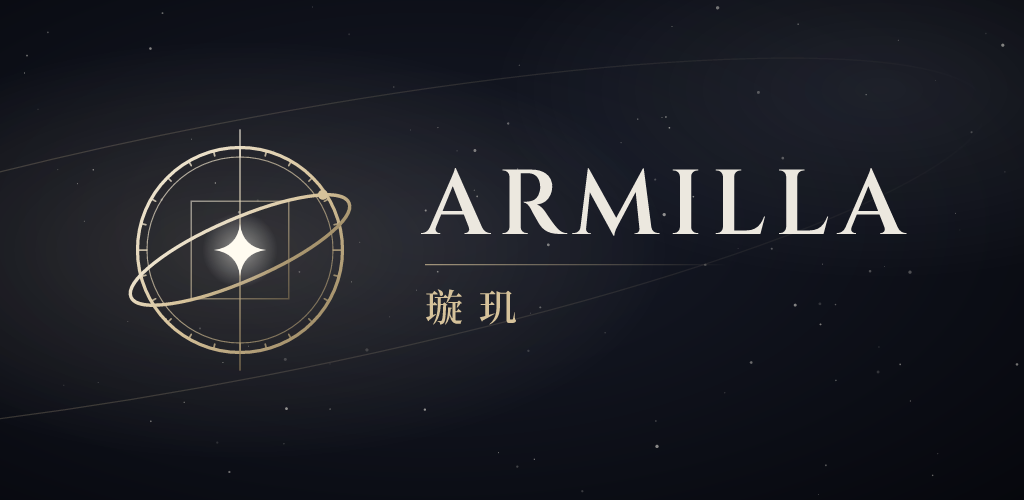
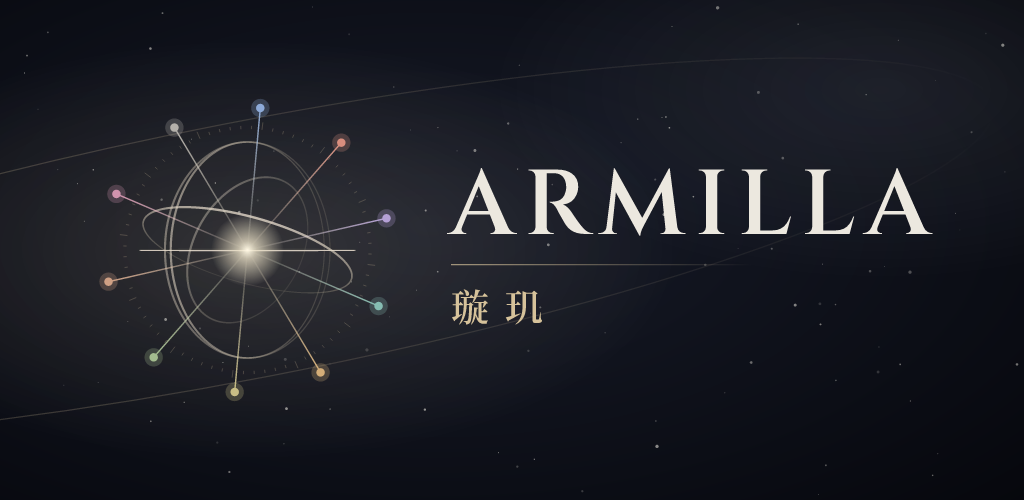
armilla: the App Store and Google Play badges are live (1.0.0 on sale on both stores); press-kit feature images with the ten-light armillary

diff --git a/armilla/press.html b/armilla/press.html
@@ -52,7 +52,7 @@
 <h2>核心差异与技术标准</h2>
 <ul><li><strong>单一 Rust 引擎：</strong> 纯 Rust 天文算法（VSOP87、ELP2000-82B/MPP02、Meeus）、IANA 历史时区与夏令时、真太阳时、精确至分节气及含闰月农历；离线运行于手机（UniFFI）及 WebAssembly，对照 1,079 组参考出生时刻零误差。</li><li><strong>AI 绝不自行推算：</strong> AI 功能通过付费 API 交由代表璇玑提供服务的第三方 AI 服务商处理（由璇玑按功能选定，均不得将接收的内容用于模型训练）。文字功能（解读、问璇玑、今日指引，以及出生时间推定的提问与理由）只发送引擎算出的命盘数据与问题，绝不发送姓名、出生日期、出生时间与出生地点；日志与人生事件文本仅在开启「让 AI 读取我的人生事件」后才会附带。形相功能仅在另行同意后发送手相或面相照片，并只由读取照片的服务商处理，绝不转交其他服务商。每句命盘陈述都附带可点击的出处，没有依据的句子会在展示前自动剔除。</li><li><strong>实证对照与时间推定：</strong> 「汇聚」圆点标示多体系共识；记录事件可统计体系契合度。<strong>出生时间推定</strong>结合家人记忆、5 件以上事件、区分性问答与可选形相参考缩小范围（AI 辅助或纯本地无 AI；依模拟回测分级，不宣称命中率）。</li><li><strong>隐私与明确边界：</strong> 排盘、导出与日志无需注册；支持无密码登录；同步日志、事件笔记与照片端到端加密，可随时导出或删除。<strong>严守六大不预测：</strong> 死亡与寿限、疾病诊断、灾祸意外、官司结果、具体投资标的、彩票赌博（形相亦不判健康与寿命）。无周订阅、不售开运物、无广告。</li></ul>
 <h2>上架范围、平台与定价</h2>
-<ul><li><strong>平台：</strong> iPhone（仅限 iPhone，iOS 26+）App Store · 即将上架 · Android（Android 9+）Google Play · 即将上架 · 网页端 <a href="https://armilla.arcturatech.com" rel="noopener">https://armilla.arcturatech.com</a> 。免费下载，单一账号三端通用；支持简中、繁中与英文（隐私与条款仅英文）。上架 App Store 174 地区及 Google Play，不上架中国大陆商店。商店名：<strong>璇玑 Armilla</strong>。</li><li><strong>订阅（美元标价，各商店当地币种；年付含 7 天试用；无周订阅）：</strong> <strong>Free（$0）：</strong> 离线命盘/时间层、本人导出、每日 6 篇速读、问璇玑（3 次/日）、十年命途、3 档案、日志。<strong>Plus（$9.99/月 · $59.99/年）：</strong> 详解与自选体系、每月 4 篇长文、流年流月、无限问璇玑、完整合盘、30 档案、每年 1 份年度报告与 1 次推定。<strong>Family（$16.99/月 · $99.99/年）：</strong> 6 账号共享 Plus、3–8 人群盘、家庭空间、60 档案、每年 3 次推定。<strong>Pro（$29.99/月 · $239/年）：</strong> 网页工作台（1,000 客户、12 人盘、白标 PDF、JSON；无 API）、每月 30 篇长文、无限年度报告与推定（合理使用）。</li><li><strong>单次购买（无需订阅）：</strong> 本相深度报告（$29）、双人合盘深度报告（$19）、家庭 / 团队盘报告（$39）、亲子成长报告（$29）、年度流年报告（$19）、合伙人契合报告（$29）、长文解读（$4.99）、出生时间推定（$19，单档案 30 天）。</li></ul>
+<ul><li><strong>平台：</strong> iPhone（仅限 iPhone，iOS 26+）<a href="https://apps.apple.com/app/apple-store/id6832763947?pt=128850178&amp;ct=site_armilla_press&amp;mt=8" rel="noopener">https://apps.apple.com/app/apple-store/id6832763947?pt=128850178&amp;ct=site_armilla_press&amp;mt=8</a> · Android（Android 9+）<a href="https://play.google.com/store/apps/details?id=com.arcturatech.armilla&amp;utm_source=site_armilla_press" rel="noopener">https://play.google.com/store/apps/details?id=com.arcturatech.armilla&amp;utm_source=site_armilla_press</a> · 网页端 <a href="https://armilla.arcturatech.com" rel="noopener">https://armilla.arcturatech.com</a> 。免费下载，单一账号三端通用；支持简中、繁中与英文（隐私与条款仅英文）。上架 App Store 174 地区及 Google Play，不上架中国大陆商店。商店名：<strong>璇玑 Armilla</strong>。</li><li><strong>订阅（美元标价，各商店当地币种；年付含 7 天试用；无周订阅）：</strong> <strong>Free（$0）：</strong> 离线命盘/时间层、本人导出、每日 6 篇速读、问璇玑（3 次/日）、十年命途、3 档案、日志。<strong>Plus（$9.99/月 · $59.99/年）：</strong> 详解与自选体系、每月 4 篇长文、流年流月、无限问璇玑、完整合盘、30 档案、每年 1 份年度报告与 1 次推定。<strong>Family（$16.99/月 · $99.99/年）：</strong> 6 账号共享 Plus、3–8 人群盘、家庭空间、60 档案、每年 3 次推定。<strong>Pro（$29.99/月 · $239/年）：</strong> 网页工作台（1,000 客户、12 人盘、白标 PDF、JSON；无 API）、每月 30 篇长文、无限年度报告与推定（合理使用）。</li><li><strong>单次购买（无需订阅）：</strong> 本相深度报告（$29）、双人合盘深度报告（$19）、家庭 / 团队盘报告（$39）、亲子成长报告（$29）、年度流年报告（$19）、合伙人契合报告（$29）、长文解读（$4.99）、出生时间推定（$19，单档案 30 天）。</li></ul>
 <hr>
 <p><strong>Arctura Technologies Inc.</strong>（加拿大安大略省） · <a href="mailto:support@arcturatech.com">support@arcturatech.com</a> · <a href="https://arcturatech.com/armilla/">https://arcturatech.com/armilla/</a><br>
 媒体素材（App 图标、标志、商店截图）：<a href="https://arcturatech.com/armilla/press">https://arcturatech.com/armilla/press</a></p>
@@ -65,7 +65,7 @@
 <h2>產品差異與技術準則</h2>
 <ul><li><strong>單一 Rust 引擎：</strong> 純 Rust 天文演算法（VSOP87、ELP2000-82B/MPP02、Meeus）、IANA 歷史時區與夏令時間、真太陽時、精確至分節氣及含閏月農曆；離線運行於手機（UniFFI）及 WebAssembly，通過 1,079 組參考出生時刻比對零誤差。</li><li><strong>AI 絕不自行排盤：</strong> AI 功能透過付費 API 交由受璇璣委託的第三方 AI 服務供應商處理（由璇璣依功能選定，均不得將收到的內容用於訓練模型）。文字功能（解讀、問璇璣、今日指引，以及出生時間推定的提問與理由）僅傳送引擎算出的命盤數據與提問，絕不傳送姓名、出生日期、出生時間與出生地點；日誌與人生事件文字僅在開啟「讓 AI 讀取我的人生事件」後才會一併傳送。形相功能僅在另行同意後傳送手相或面相照片，且只由讀取照片的服務供應商處理，絕不轉交其他供應商。每句命盤陳述皆附可點擊的出處，缺乏依據的句子會在顯示前自動移除。</li><li><strong>實證對照與時間推定：</strong> 「匯聚」圓點標示多體系共識；記錄事件可檢視體系契合度。<strong>出生時間推定</strong>結合家人記憶、5 件以上事件、區分性提問與可選形相參考縮小範圍（AI 輔助或純本機無 AI；依模擬回測分級，不宣稱命中率）。</li><li><strong>隱私與明確邊界：</strong> 排盤、匯出與日誌無須註冊；支援無密碼登入；同步日誌、事件筆記與照片全程端到端加密，可隨時匯出或刪除。<strong>嚴守六大不預測：</strong> 死亡與壽命、疾病診斷、災禍意外、官司結果、具體投資標的、彩券賭博（形相亦不判斷健康與壽命）。無週訂閱、不販售開運商品、無廣告。</li></ul>
 <h2>上架範圍、平台與定價</h2>
-<ul><li><strong>平台：</strong> iPhone（僅支援 iPhone，iOS 26+）App Store · 即將上架 · Android（Android 9+）Google Play · 即將上架 · 網頁版 <a href="https://armilla.arcturatech.com" rel="noopener">https://armilla.arcturatech.com</a> 。免費下載，單一帳號三端通用；支援繁中、簡中與英文（隱私與條款僅英文）。上架 App Store 174 地區及 Google Play，不上架中國大陸商店。商店名稱：<strong>璇璣 Armilla</strong>。</li><li><strong>訂閱（美元定價，各商店當地幣別；年繳附 7 天試用；無週訂閱）：</strong> <strong>Free（$0）：</strong> 離線命盤/時間層、本人匯出、每日 6 篇速讀、問璇璣（3 次/日）、十年命途、3 檔案、日誌。<strong>Plus（$9.99/月 · $59.99/年）：</strong> 詳解與自選體系、每月 4 篇長文、流年流月、無限問璇璣、完整合盤、30 檔案、每年 1 份年度報告與 1 次推定。<strong>Family（$16.99/月 · $99.99/年）：</strong> 6 帳號共享 Plus、3–8 人群盤、家庭空間、60 檔案、每年 3 次推定。<strong>Pro（$29.99/月 · $239/年）：</strong> 網頁工作台（1,000 客戶、12 人盤、白標 PDF、JSON；不含 API）、每月 30 篇長文、無限年度報告與推定（合理使用）。</li><li><strong>單次購買（無須訂閱）：</strong> 本相深度報告（$29）、雙人合盤深度報告（$19）、家庭 / 團隊盤報告（$39）、親子成長報告（$29）、年度流年報告（$19）、合夥人契合報告（$29）、長文解讀（$4.99）、出生時間推定（$19，單檔案 30 天）。</li></ul>
+<ul><li><strong>平台：</strong> iPhone（僅支援 iPhone，iOS 26+）<a href="https://apps.apple.com/app/apple-store/id6832763947?pt=128850178&amp;ct=site_armilla_press&amp;mt=8" rel="noopener">https://apps.apple.com/app/apple-store/id6832763947?pt=128850178&amp;ct=site_armilla_press&amp;mt=8</a> · Android（Android 9+）<a href="https://play.google.com/store/apps/details?id=com.arcturatech.armilla&amp;utm_source=site_armilla_press" rel="noopener">https://play.google.com/store/apps/details?id=com.arcturatech.armilla&amp;utm_source=site_armilla_press</a> · 網頁版 <a href="https://armilla.arcturatech.com" rel="noopener">https://armilla.arcturatech.com</a> 。免費下載，單一帳號三端通用；支援繁中、簡中與英文（隱私與條款僅英文）。上架 App Store 174 地區及 Google Play，不上架中國大陸商店。商店名稱：<strong>璇璣 Armilla</strong>。</li><li><strong>訂閱（美元定價，各商店當地幣別；年繳附 7 天試用；無週訂閱）：</strong> <strong>Free（$0）：</strong> 離線命盤/時間層、本人匯出、每日 6 篇速讀、問璇璣（3 次/日）、十年命途、3 檔案、日誌。<strong>Plus（$9.99/月 · $59.99/年）：</strong> 詳解與自選體系、每月 4 篇長文、流年流月、無限問璇璣、完整合盤、30 檔案、每年 1 份年度報告與 1 次推定。<strong>Family（$16.99/月 · $99.99/年）：</strong> 6 帳號共享 Plus、3–8 人群盤、家庭空間、60 檔案、每年 3 次推定。<strong>Pro（$29.99/月 · $239/年）：</strong> 網頁工作台（1,000 客戶、12 人盤、白標 PDF、JSON；不含 API）、每月 30 篇長文、無限年度報告與推定（合理使用）。</li><li><strong>單次購買（無須訂閱）：</strong> 本相深度報告（$29）、雙人合盤深度報告（$19）、家庭 / 團隊盤報告（$39）、親子成長報告（$29）、年度流年報告（$19）、合夥人契合報告（$29）、長文解讀（$4.99）、出生時間推定（$19，單檔案 30 天）。</li></ul>
 <hr>
 <p><strong>Arctura Technologies Inc.</strong>（加拿大安大略省） · <a href="mailto:support@arcturatech.com">support@arcturatech.com</a> · <a href="https://arcturatech.com/armilla/">https://arcturatech.com/armilla/</a><br>
 媒體素材（App 圖示、標誌、商店截圖）：<a href="https://arcturatech.com/armilla/press">https://arcturatech.com/armilla/press</a></p>
@@ -78,7 +78,7 @@
 <h2>What Sets It Apart</h2>
 <ul><li><strong>Verified Rust engine:</strong> Pure Rust astronomy (VSOP87, ELP2000-82B/MPP02, Meeus), IANA time zones/DST, true solar time, minute-accurate solar terms, and lunar leap months—offline on phones (UniFFI) and WebAssembly; zero differences across 1,079 reference birth moments.</li><li><strong>Cited AI, zero math:</strong> AI features run through paid APIs with third-party AI service providers working on Armilla's behalf—chosen by Armilla per feature, and none may train on what Armilla sends. Text features (readings, Ask, Today's guidance, and birth-time inference questions and reasons) send only computed chart data and the prompt—never names, birth date, birth time, or birthplace—with journal and life-event text added only if &quot;Let AI read my life events&quot; is on. Hand &amp; face sends palm or face photos only after separate consent, and only to the provider that reads them—never passed on to another. Every chart claim links to a tappable element; unsourced lines are stripped before display.</li><li><strong>Lived proof:</strong> Convergence dots mark cross-system agreement; logged events track accuracy. <strong>Birth-time inference</strong> narrows unknown hours via family clues, 5+ events, distinguishing questions, and optional Hand &amp; face reference (AI-assisted or local; tiered confidence from simulated backtest, no hit rate claimed).</li><li><strong>Privacy &amp; limits:</strong> No account for charts/export/journal; passwordless login; synced journal entries, life-event notes, and life-event photos use E2E encryption; palm and face photos for Hand &amp; face are uploaded after separate consent to the user's private cloud storage so the AI provider's vision model can read them (not E2E encrypted, deletable at any time); in-app export/delete. <strong>Never predicts:</strong> death/lifespan, illness/diagnosis, disasters/accidents, lawsuit outcomes, specific investments, or lotteries/gambling (nor health/lifespan in Hand &amp; face); no ritual goods or ads.</li></ul>
 <h2>Availability &amp; Pricing</h2>
-<ul><li><strong>Platforms:</strong> iPhone-only (iOS 26+) App Store · Coming soon · Android 9+ Google Play · Coming soon · Web <a href="https://armilla.arcturatech.com" rel="noopener">https://armilla.arcturatech.com</a>. Free download; one account across all three; English, Simplified &amp; Traditional Chinese (Privacy/Terms in English); 174 App Store territories &amp; Google Play (not mainland China). Store name: <strong>Armilla</strong>.</li><li><strong>Plans (USD; local currency; 7-day yearly trial; no weekly):</strong> <strong>Free ($0):</strong> offline charts, export, 6 Brief/day, Ask (3/day), decade Life Map, 3 profiles, journal. <strong>Plus ($9.99/mo · $59.99/yr):</strong> Full/custom &amp; 4 Long/mo, full Life Map, unlimited Ask, full pair, 30 profiles, 1 annual report &amp; inference/yr. <strong>Family ($16.99/mo · $99.99/yr):</strong> Plus for 6 accounts, 3–8 charts, family space, 60 profiles, 3 inferences/yr. <strong>Pro ($29.99/mo · $239/yr):</strong> Web workspace (1,000 clients, 12-person, white-label PDF, JSON; no API), 30 Long/mo, unlimited reports/inferences (fair use).</li><li><strong>One-time (no subscription):</strong> In-depth Essence Report ($29), In-depth Pair Report ($19), Family / Team Report ($39), Parent &amp; Child Report ($29), Year-Ahead Report ($19), Business Partner Report ($29), Long Reading ($4.99), Birth-time Inference ($19, 30-day session).</li></ul>
+<ul><li><strong>Platforms:</strong> iPhone-only (iOS 26+) <a href="https://apps.apple.com/app/apple-store/id6832763947?pt=128850178&amp;ct=site_armilla_press&amp;mt=8" rel="noopener">https://apps.apple.com/app/apple-store/id6832763947?pt=128850178&amp;ct=site_armilla_press&amp;mt=8</a> · Android 9+ <a href="https://play.google.com/store/apps/details?id=com.arcturatech.armilla&amp;utm_source=site_armilla_press" rel="noopener">https://play.google.com/store/apps/details?id=com.arcturatech.armilla&amp;utm_source=site_armilla_press</a> · Web <a href="https://armilla.arcturatech.com" rel="noopener">https://armilla.arcturatech.com</a>. Free download; one account across all three; English, Simplified &amp; Traditional Chinese (Privacy/Terms in English); 174 App Store territories &amp; Google Play (not mainland China). Store name: <strong>Armilla</strong>.</li><li><strong>Plans (USD; local currency; 7-day yearly trial; no weekly):</strong> <strong>Free ($0):</strong> offline charts, export, 6 Brief/day, Ask (3/day), decade Life Map, 3 profiles, journal. <strong>Plus ($9.99/mo · $59.99/yr):</strong> Full/custom &amp; 4 Long/mo, full Life Map, unlimited Ask, full pair, 30 profiles, 1 annual report &amp; inference/yr. <strong>Family ($16.99/mo · $99.99/yr):</strong> Plus for 6 accounts, 3–8 charts, family space, 60 profiles, 3 inferences/yr. <strong>Pro ($29.99/mo · $239/yr):</strong> Web workspace (1,000 clients, 12-person, white-label PDF, JSON; no API), 30 Long/mo, unlimited reports/inferences (fair use).</li><li><strong>One-time (no subscription):</strong> In-depth Essence Report ($29), In-depth Pair Report ($19), Family / Team Report ($39), Parent &amp; Child Report ($29), Year-Ahead Report ($19), Business Partner Report ($29), Long Reading ($4.99), Birth-time Inference ($19, 30-day session).</li></ul>
 <hr>
 <p><strong>Arctura Technologies Inc.</strong> (Ontario, Canada) · <a href="mailto:support@arcturatech.com">support@arcturatech.com</a> · <a href="https://arcturatech.com/armilla/">https://arcturatech.com/armilla/</a><br>
 Press kit (app icon, logo, store frames): <a href="https://arcturatech.com/armilla/press">https://arcturatech.com/armilla/press</a></p>
@@ -94,9 +94,9 @@ Press kit (app icon, logo, store frames): <a href="https://arcturatech.com/armil
         <li><a href="/armilla/press-kit/armilla-icon-1024.png" download><span data-l="zh-Hans">应用图标</span><span data-l="zh-Hant">App 圖示</span><span data-l="en">App icon</span></a> <span class="meta">PNG · 1024 × 1024 · 135 KB</span></li>
         <li><a href="/armilla/press-kit/armilla-logo-dark.svg" download><span data-l="zh-Hans">品牌标志（深色背景）</span><span data-l="zh-Hant">品牌標誌（深色背景）</span><span data-l="en">Armilla mark (dark backgrounds)</span></a> <span class="meta">SVG · 2 KB</span></li>
         <li><a href="/armilla/press-kit/armilla-logo-light.svg" download><span data-l="zh-Hans">品牌标志（浅色背景）</span><span data-l="zh-Hant">品牌標誌（淺色背景）</span><span data-l="en">Armilla mark (light backgrounds)</span></a> <span class="meta">SVG · 2 KB</span></li>
-        <li><a href="/armilla/press-kit/armilla-feature-en.png" download><span data-l="zh-Hans">宣传横幅（英文版）</span><span data-l="zh-Hant">宣傳橫幅（英文版）</span><span data-l="en">Feature graphic (English)</span></a> <span class="meta">PNG · 1024 × 500 · 102 KB</span></li>
-        <li><a href="/armilla/press-kit/armilla-feature-zh-hans.png" download><span data-l="zh-Hans">宣传横幅（简体中文版）</span><span data-l="zh-Hant">宣傳橫幅（簡體中文版）</span><span data-l="en">Feature graphic (Simplified Chinese)</span></a> <span class="meta">PNG · 1024 × 500 · 103 KB</span></li>
-        <li><a href="/armilla/press-kit/armilla-feature-zh-hant.png" download><span data-l="zh-Hans">宣传横幅（繁体中文版）</span><span data-l="zh-Hant">宣傳橫幅（繁體中文版）</span><span data-l="en">Feature graphic (Traditional Chinese)</span></a> <span class="meta">PNG · 1024 × 500 · 107 KB</span></li>
+        <li><a href="/armilla/press-kit/armilla-feature-en.png" download><span data-l="zh-Hans">宣传横幅（英文版）</span><span data-l="zh-Hant">宣傳橫幅（英文版）</span><span data-l="en">Feature graphic (English)</span></a> <span class="meta">PNG · 1024 × 500 · 119 KB</span></li>
+        <li><a href="/armilla/press-kit/armilla-feature-zh-hans.png" download><span data-l="zh-Hans">宣传横幅（简体中文版）</span><span data-l="zh-Hant">宣傳橫幅（簡體中文版）</span><span data-l="en">Feature graphic (Simplified Chinese)</span></a> <span class="meta">PNG · 1024 × 500 · 120 KB</span></li>
+        <li><a href="/armilla/press-kit/armilla-feature-zh-hant.png" download><span data-l="zh-Hans">宣传横幅（繁体中文版）</span><span data-l="zh-Hant">宣傳橫幅（繁體中文版）</span><span data-l="en">Feature graphic (Traditional Chinese)</span></a> <span class="meta">PNG · 1024 × 500 · 124 KB</span></li>
         <li><a href="/armilla/press-kit/armilla-og-1200x630.png" download><span data-l="zh-Hans">产品页链接预览图</span><span data-l="zh-Hant">產品頁連結預覽圖</span><span data-l="en">Link-preview image (product page)</span></a> <span class="meta">PNG · 1200 × 630 · 127 KB</span></li>
       </ul>
       

diff --git a/armilla/index.html b/armilla/index.html
@@ -54,7 +54,7 @@
         <h1><span data-l="zh-Hans" lang="zh-Hans">璇玑 <span class="latin">ARMILLA</span></span><span data-l="zh-Hant" lang="zh-Hant">璇璣 <span class="latin">ARMILLA</span></span><span data-l="en" lang="en">Armilla</span></h1>
         <p class="lead" data-l="zh-Hans" lang="zh-Hans">璇玑汇集八字、紫微斗数、西方与吠陀占星、人类图、生命灵数、易经、形相（手相与面相）及心理测评十大体系。所有命盘与岁运均由同一引擎精准计算；AI 不自行推算，只在引擎结果之上撰写综合或单体系解读，每句论盘皆标明出处并可直达原盘。无论你想看精确命盘、读懂自己，还是对照过往并查看未来十年，皆可从此开始。</p><p class="lead" data-l="zh-Hant" lang="zh-Hant">璇璣將八字、紫微斗數、西方與吠陀占星、人類圖、生命靈數、易經、形相（手相與面相）及心理測評十大體系匯聚一處。所有命盤與歲運皆由同一引擎精準排定；AI 不自行推算，僅根據算出的盤面數據撰寫綜合或單體系解讀，每句論盤皆標註干支、星曜、行星或閘門等依據，一點就能回到原盤查證。不論你想檢視精確命盤、讀懂自己，或回看過往並查看未來十年，都能從此展開。</p><p class="lead" data-l="en" lang="en">Armilla brings ten systems together to read a person from many angles: Western and Vedic astrology, Chinese BaZi and Zi Wei Dou Shu, Energy Blueprint, numerology, the I Ching, palm and face reading, and psychometric profiles. One deterministic engine computes the charts and cycles; on top of those results, AI writes readings in which every chart statement points straight to the element behind it. Inspect exact charts, understand how you operate, and map the years behind and ahead.</p>
         <div class="cta-row"><a class="btn solid" href="https://armilla.arcturatech.com/zh-hans" data-l="zh-Hans" lang="zh-Hans">打开网页版</a><a class="btn solid" href="https://armilla.arcturatech.com/zh-hant" data-l="zh-Hant" lang="zh-Hant">開啟網頁版</a><a class="btn solid" href="https://armilla.arcturatech.com/en" data-l="en" lang="en">Open the web app</a></div>
-        <div class="badges"><span class="soon" data-store-soon="app-store"><span data-l="zh-Hans">App Store · 即将上架</span><span data-l="zh-Hant">App Store · 即將上架</span><span data-l="en">App Store · Coming soon</span></span><span class="soon" data-store-soon="play"><span data-l="zh-Hans">Google Play · 即将上架</span><span data-l="zh-Hant">Google Play · 即將上架</span><span data-l="en">Google Play · Coming soon</span></span></div>
+        <div class="badges"><a data-store="app-store" href="https://apps.apple.com/app/apple-store/id6832763947?pt=128850178&amp;ct=site_armilla&amp;mt=8"><img data-l="zh-Hans" src="/armilla/img/badge-app-store-zh-hans.svg" width="138" height="46" alt="在 App Store 下载"><img data-l="zh-Hant" src="/armilla/img/badge-app-store-zh-hant.svg" width="138" height="46" alt="在 App Store 下載"><img data-l="en" src="/armilla/img/badge-app-store-en.svg" width="138" height="46" alt="Download on the App Store"></a><a data-store="play" href="https://play.google.com/store/apps/details?id=com.arcturatech.armilla&amp;utm_source=site_armilla"><img data-l="zh-Hans" src="/armilla/img/badge-google-play-zh-hans.svg" width="155" height="46" alt="去商店下载 Google Play"><img data-l="zh-Hant" src="/armilla/img/badge-google-play-zh-hant.svg" width="155" height="46" alt="Google Play 立即下載"><img data-l="en" src="/armilla/img/badge-google-play-en.svg" width="155" height="46" alt="Get it on Google Play"></a></div>
         <p class="small" data-l="zh-Hans" lang="zh-Hans">排盘免费，无需账号即可开始；支持 iPhone、Android 手机与网页端，同一会员三端通用。</p><p class="small" data-l="zh-Hant" lang="zh-Hant">排盤免費，無需帳號即可開始；支援 iPhone、Android 手機與網頁端，同一會員資格三端通用。</p><p class="small" data-l="en" lang="en">Charts are free with no account needed. Available on iPhone, Android phones, and the web, with one membership across all three.</p>
       </div>
       <figure class="shot" data-slot="hero"><span class="phone"><img data-l="zh-Hans" src="/armilla/img/screens/glance.zh-hans.webp" width="660" height="1434" alt="深色模式下的璇玑手机界面截图：示例人物林夏完成首次排盘汇聚后的“本相速览”页面，显示多体系共同指向的最强发现，每条发现旁配有五个圆点标明一致的体系数量。" loading="lazy" decoding="async"><img data-l="zh-Hant" src="/armilla/img/screens/glance.zh-hant.webp" width="660" height="1434" alt="深色模式下的璇璣手機介面截圖：範例人物林夏完成首次排盤匯聚後的「本相速覽」畫面，顯示多體系共同指向的最強發現，每項發現旁皆有五個圓點標示相符的體系數量。" loading="lazy" decoding="async"><img data-l="en" src="/armilla/img/screens/glance.en.webp" width="660" height="1434" alt="Dark-mode Armilla screenshot for sample profile Lin Xia showing the First glance screen at the end of initial setup, after converging finishes, with the strongest cross-system findings and five dots next to each showing how many systems agree." loading="lazy" decoding="async"></span></figure>
@@ -237,7 +237,7 @@
       <h2 id="get-h"><span data-l="zh-Hans">获取璇玑</span><span data-l="zh-Hant">取得璇璣</span><span data-l="en">Get Armilla</span></h2>
       <p class="lead" data-l="zh-Hans" lang="zh-Hans">璇玑网页版现已上线，手机端涵盖 iPhone（仅限 iPhone，无 iPad 版）与 Android 手机。同一账号与同一会员在三端通用。璇玑未在中国大陆的应用商店上架。</p><p class="lead" data-l="zh-Hant" lang="zh-Hant">璇璣網頁版現已上線，手機端適用於 iPhone（僅限 iPhone，無 iPad 版）與 Android 手機。同一帳號與同一會員資格於三端通用。璇璣未在中國大陸的應用程式商店上架。</p><p class="lead" data-l="en" lang="en">The web app is live now, alongside apps for iPhone (iPhone only; there is no iPad version) and Android phones. One account and one membership work across all three. Armilla is not offered in mainland China's app stores.</p>
       <div class="cta-row"><a class="btn solid" href="https://armilla.arcturatech.com/zh-hans" data-l="zh-Hans" lang="zh-Hans">打开璇玑网页版</a><a class="btn solid" href="https://armilla.arcturatech.com/zh-hant" data-l="zh-Hant" lang="zh-Hant">開啟璇璣網頁版</a><a class="btn solid" href="https://armilla.arcturatech.com/en" data-l="en" lang="en">Open Armilla on the web</a></div>
-      <div class="badges"><span class="soon" data-store-soon="app-store"><span data-l="zh-Hans">App Store · 即将上架</span><span data-l="zh-Hant">App Store · 即將上架</span><span data-l="en">App Store · Coming soon</span></span><span class="soon" data-store-soon="play"><span data-l="zh-Hans">Google Play · 即将上架</span><span data-l="zh-Hant">Google Play · 即將上架</span><span data-l="en">Google Play · Coming soon</span></span></div>
+      <div class="badges"><a data-store="app-store" href="https://apps.apple.com/app/apple-store/id6832763947?pt=128850178&amp;ct=site_armilla&amp;mt=8"><img data-l="zh-Hans" src="/armilla/img/badge-app-store-zh-hans.svg" width="138" height="46" alt="在 App Store 下载"><img data-l="zh-Hant" src="/armilla/img/badge-app-store-zh-hant.svg" width="138" height="46" alt="在 App Store 下載"><img data-l="en" src="/armilla/img/badge-app-store-en.svg" width="138" height="46" alt="Download on the App Store"></a><a data-store="play" href="https://play.google.com/store/apps/details?id=com.arcturatech.armilla&amp;utm_source=site_armilla"><img data-l="zh-Hans" src="/armilla/img/badge-google-play-zh-hans.svg" width="155" height="46" alt="去商店下载 Google Play"><img data-l="zh-Hant" src="/armilla/img/badge-google-play-zh-hant.svg" width="155" height="46" alt="Google Play 立即下載"><img data-l="en" src="/armilla/img/badge-google-play-en.svg" width="155" height="46" alt="Get it on Google Play"></a></div>
     </div>
   </section>
 </main>
@@ -254,6 +254,8 @@
     </nav>
     <p data-l="zh-Hans" lang="zh-Hans">产品支持：<a href="mailto:support@arcturatech.com">support@arcturatech.com</a> · 隐私与数据请求：<a href="mailto:privacy@arcturatech.com">privacy@arcturatech.com</a></p><p data-l="zh-Hant" lang="zh-Hant">產品支援：<a href="mailto:support@arcturatech.com">support@arcturatech.com</a> · 隱私與資料請求：<a href="mailto:privacy@arcturatech.com">privacy@arcturatech.com</a></p><p data-l="en" lang="en">Product support: <a href="mailto:support@arcturatech.com">support@arcturatech.com</a> · Privacy and data requests: <a href="mailto:privacy@arcturatech.com">privacy@arcturatech.com</a></p>
     <p>© 2026 Arctura Technologies Inc.</p>
+    <p class="small" lang="en" data-store-legal>Apple and the Apple logo are trademarks of Apple Inc., registered in the U.S. and other countries. App Store is a service mark of Apple Inc., registered in the U.S. and other countries.</p>
+    <p class="small" lang="en" data-store-legal>Google Play and the Google Play logo are trademarks of Google LLC.</p>
   </div>
 </footer>
 </body>

diff --git a/armilla/assets/config.js b/armilla/assets/config.js
@@ -18,8 +18,8 @@ export const SITE = Object.freeze({
   region: 'ap-southeast-1',
   base: '/armilla',
   scheme: 'armilla',
-  appStore: Object.freeze({ public: false, id: '6832763947', providerToken: '128850178', campaign: 'site_armilla' }),
-  play: Object.freeze({ public: false, package: 'com.arcturatech.armilla', campaign: 'site_armilla' }),
+  appStore: Object.freeze({ public: true, id: '6832763947', providerToken: '128850178', campaign: 'site_armilla' }),
+  play: Object.freeze({ public: true, package: 'com.arcturatech.armilla', campaign: 'site_armilla' }),
   clipBundleId: 'com.arcturatech.armilla.Clip',
 });
 
